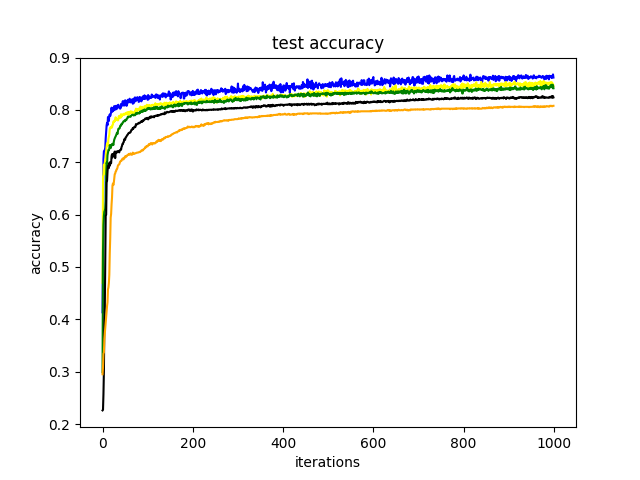
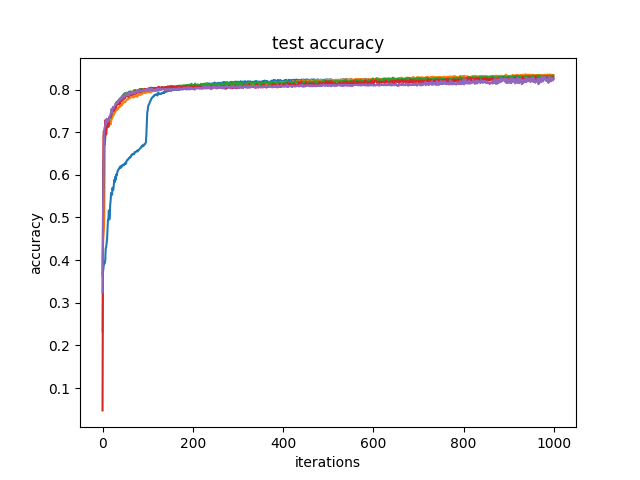
question 3 completed (???)

diff --git a/Proj1/Project_1a/question_3.py b/Proj1/Project_1a/question_3.py
@@ -41,24 +41,25 @@ def shuffle_data (samples, labels):
 
 decay = 1e-6
 learning_rate = 0.01
-epochs = 200
+epochs = 1000
 
 #Was 32
 #batch_size = 32
 
-batch_sizes = [4, 8, 16, 32, 64]
+batch_size = 16
 
-#To make distinction between graphs
-colors = {4:"blue", 8:"purple", 16:"green", 32:"black", 64:"orange"}
+hidden_layer_options = [5, 10, 15, 20, 25]
 
 
-for batch_size in batch_sizes:
-# theano expressions
+for neurons in hidden_layer_options:
+
+
+    # theano expressions
     X = T.matrix() #features
     Y = T.matrix() #output
 
-    w1, b1 = init_weights(36, 10), init_bias(10) #weights and biases from input to hidden layer
-    w2, b2 = init_weights(10, 6, logistic=False), init_bias(6) #weights and biases from hidden to output layer
+    w1, b1 = init_weights(36, neurons), init_bias(neurons) #weights and biases from input to hidden layer
+    w2, b2 = init_weights(neurons, 6, logistic=False), init_bias(6) #weights and biases from hidden to output layer
 
     h1 = T.nnet.sigmoid(T.dot(X, w1) + b1)
     py = T.nnet.softmax(T.dot(h1, w2) + b2)
@@ -146,17 +147,18 @@ for batch_size in batch_sizes:
         test_accuracy = np.append(test_accuracy, np.mean(np.argmax(testY, axis=1) == predict(testX)))
 
     plt.figure("cost")
-    plt.plot(range(epochs), train_cost, color = colors[batch_size], label = "test")
+    plt.plot(range(epochs), train_cost)
     plt.figure("accuracy")
-    plt.plot(range(epochs), test_accuracy, color = colors[batch_size])
+    plt.plot(range(epochs), test_accuracy)
     plt.figure("time")
-    plt.plot(range(epochs), time_list, color = colors[batch_size])
+    plt.plot(range(epochs), time_list)
 
 
 
     print('%.1f accuracy at iteration %d'%(np.max(test_accuracy)*100, np.argmax(test_accuracy)+1))
 
 #Plots
+
 plt.figure("cost")
 #plt.plot(range(epochs), train_cost)
 plt.xlabel('iterations')
